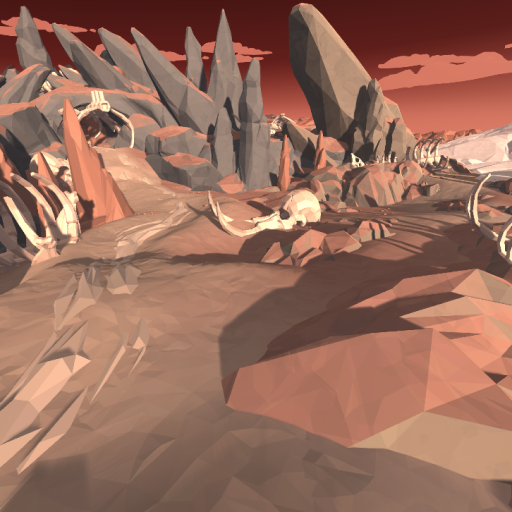
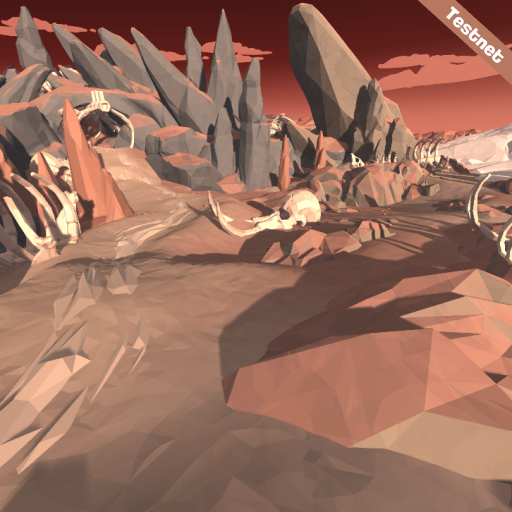
feat: mark testnet

Changed region(s): [[0.8125, 0.0, 1.0, 0.1562]]

diff --git a/app/layout.tsx b/app/layout.tsx
@@ -14,8 +14,8 @@ const geistMono = localFont({
 })
 
 export const metadata: Metadata = {
-  title: 'Create Next App',
-  description: 'Generated by create next app',
+  title: 'Blinks Boss',
+  description: 'Blinks Boss',
 }
 
 export default function RootLayout({
